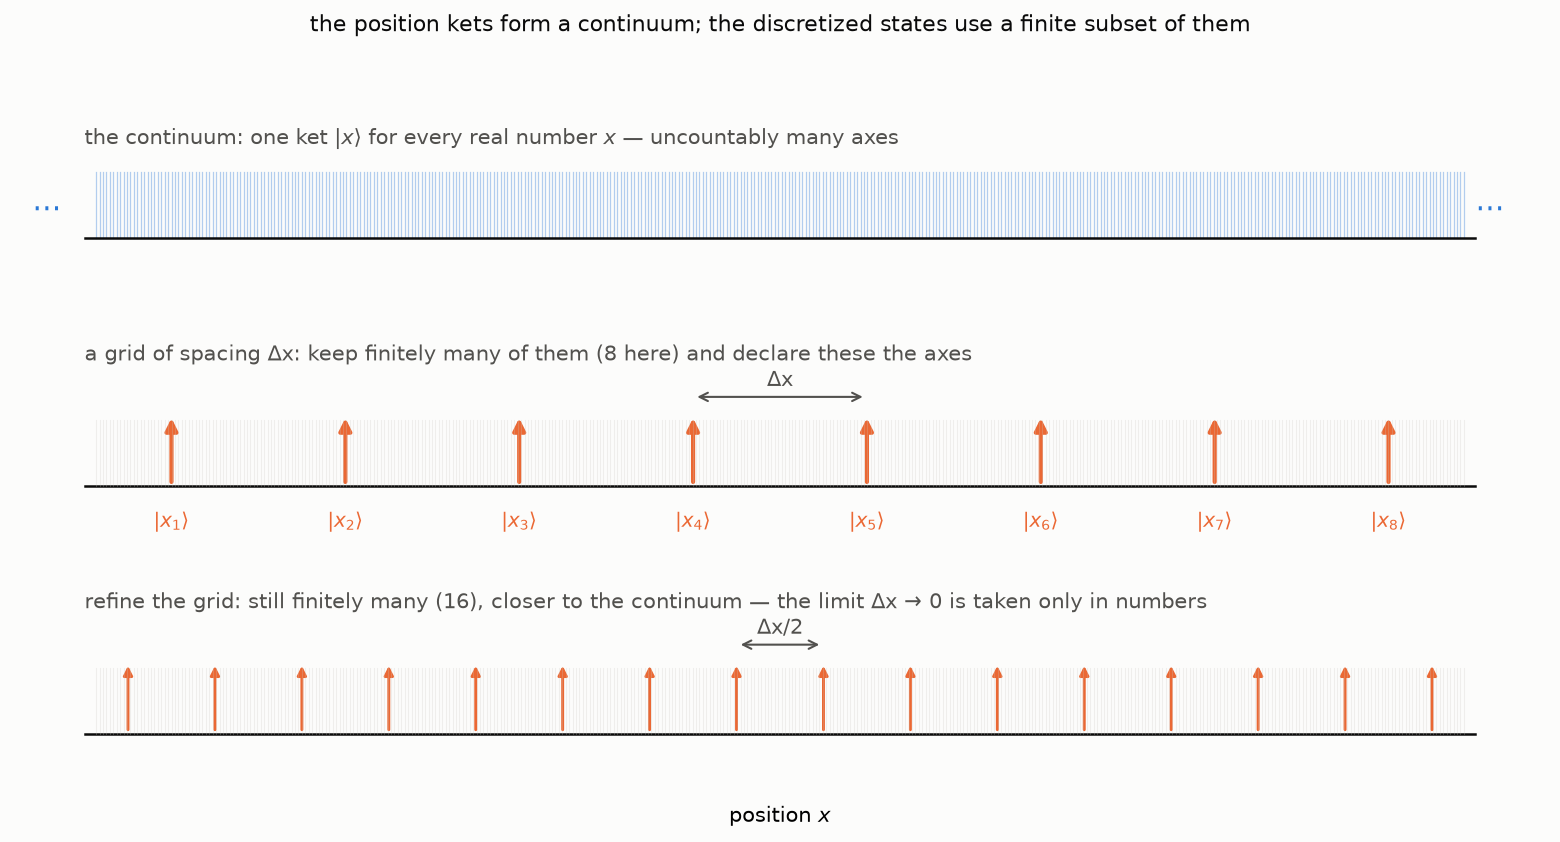
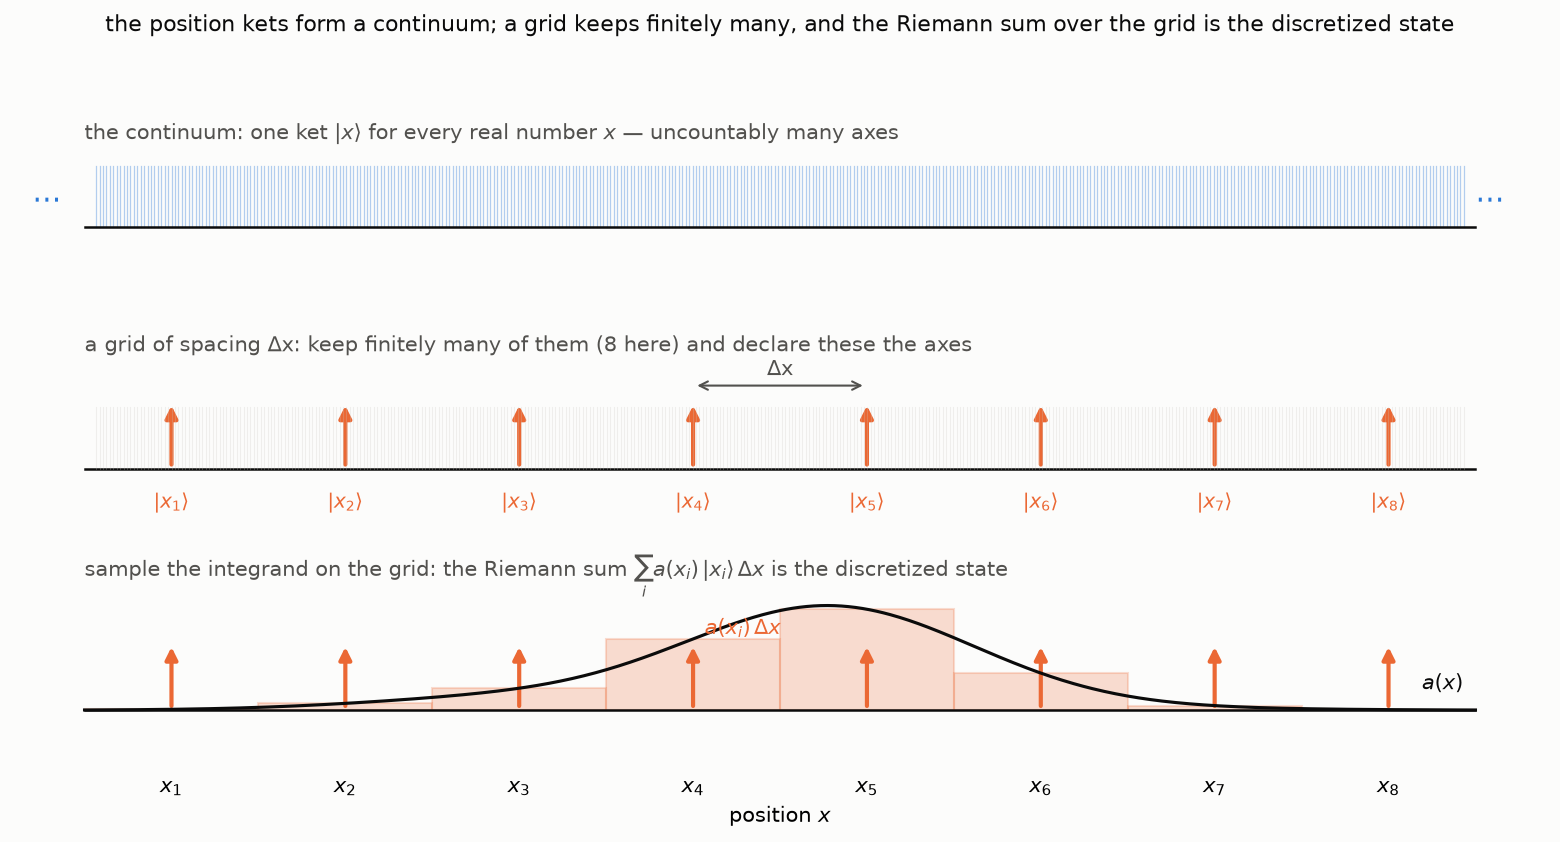
Delta post: continuum-grid figure now ends with the Riemann sum over the grid

diff --git a/content/posts/from-kronecker-to-dirac/index.md b/content/posts/from-kronecker-to-dirac/index.md
@@ -136,7 +136,7 @@ is the length of a cell on the line.) Every limit
 $\Delta x \to 0$ in this post will be a limit of *numbers* computed
 from these finite sums, never a limit of kets.
 
-![The position kets form a continuum, one per real number; a grid keeps finitely many of them and declares them the axes; refining the grid brings the finite set closer to the continuum](continuum_grid.png)
+![The position kets form a continuum, one per real number; a grid keeps finitely many of them and declares them the axes; the Riemann sum of the integrand over the grid is the discretized state](continuum_grid.png)
 
 Compute the inner product of the two finite sums. By linearity in the
 second slot and anti-linearity in the first — the two properties from
